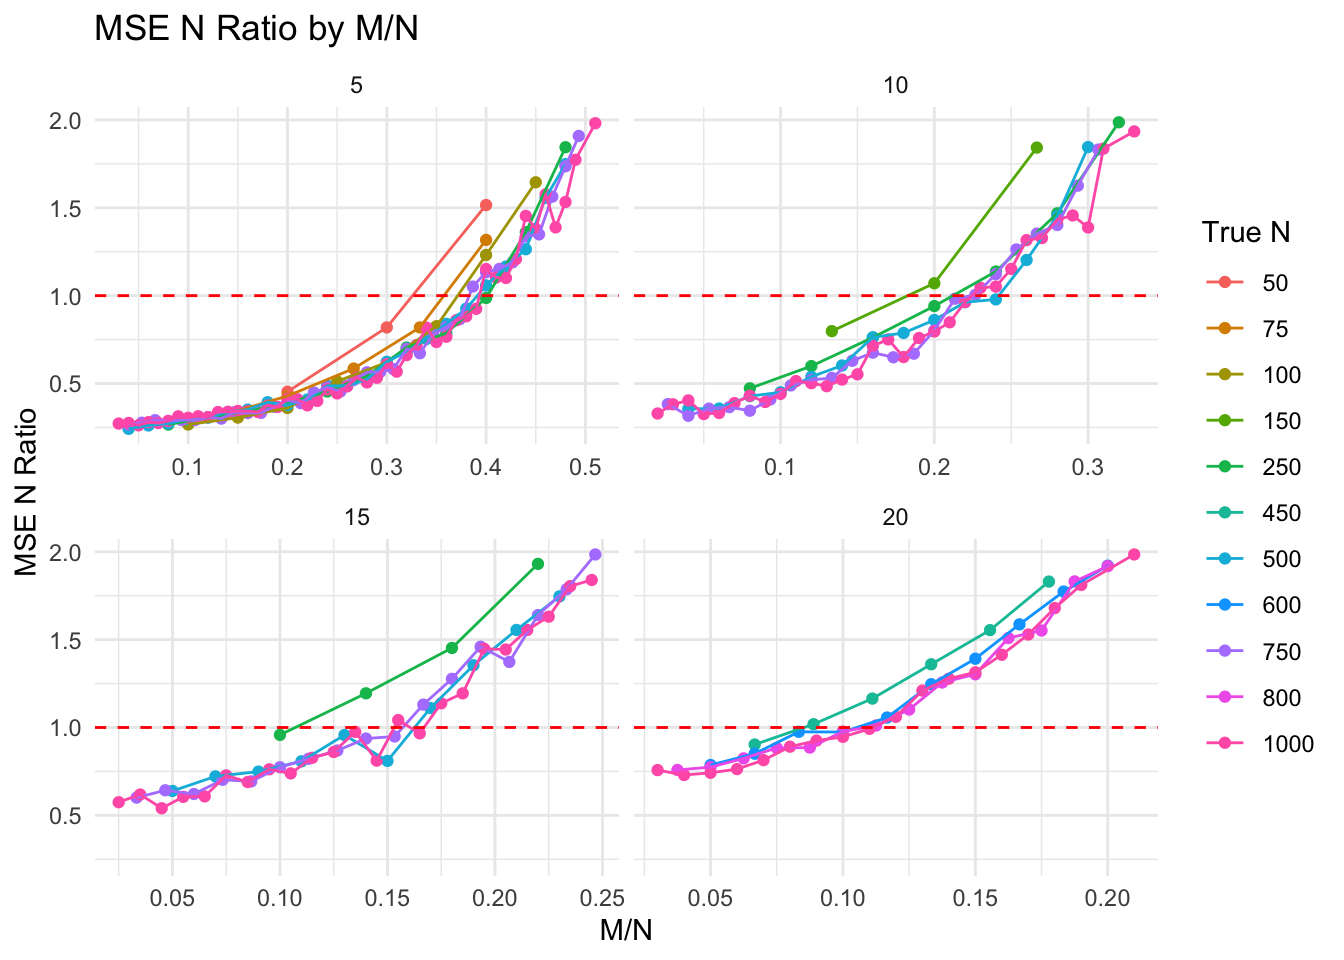
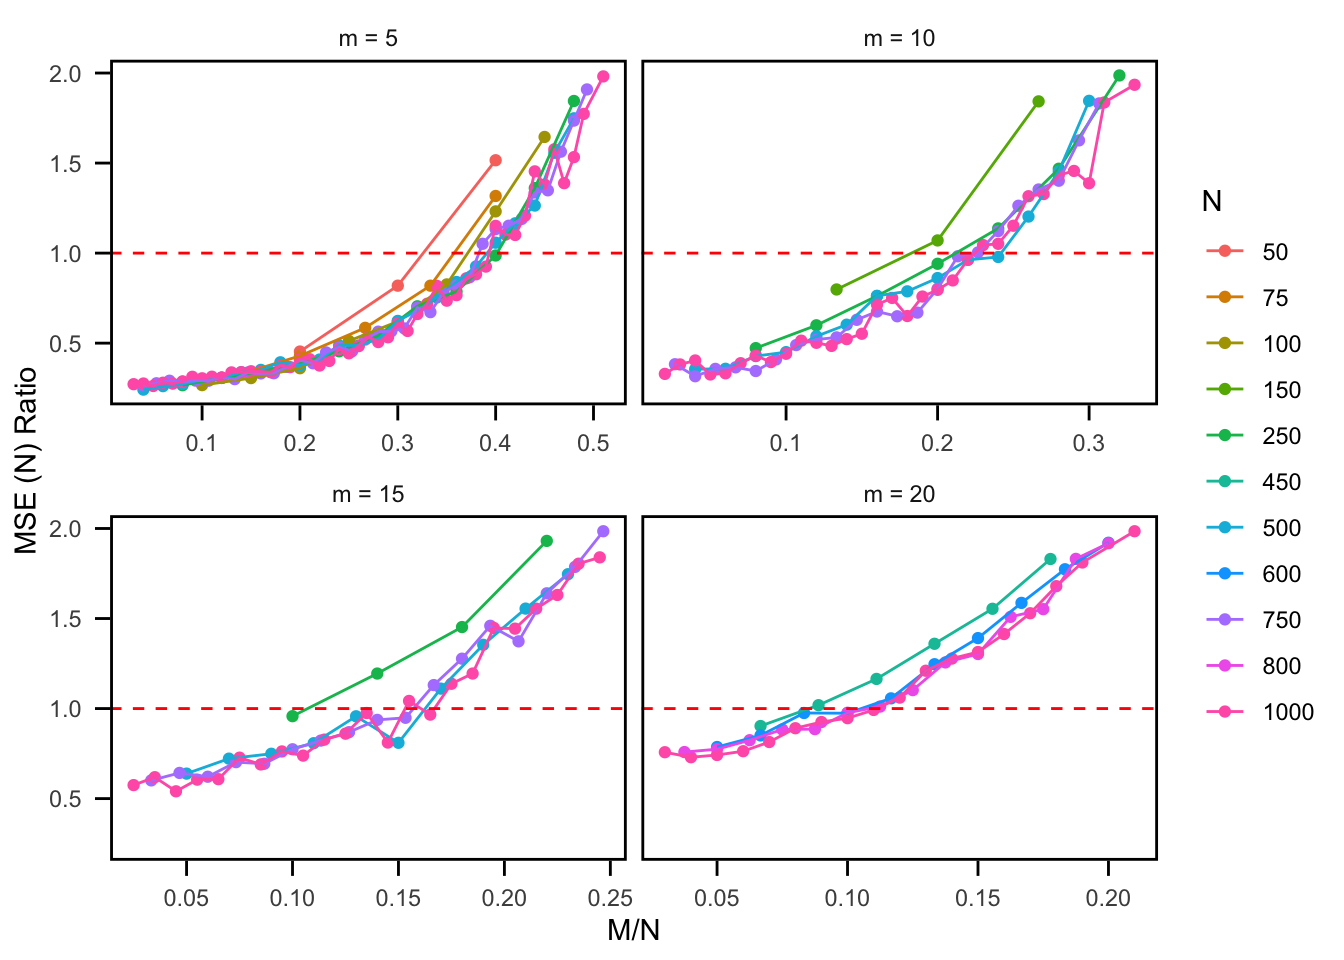
polished HG vs NHG Point Estimate plots

diff --git a/Simulation_Comparison/nhg_hg_sim_point_estimate.html b/Simulation_Comparison/nhg_hg_sim_point_estimate.html
@@ -732,18 +732,41 @@ MSE Ratios:</code></pre>
 <section id="mse-n-plot" class="level3">
 <h3 class="anchored" data-anchor-id="mse-n-plot">MSE (N) Plot</h3>
 <div class="cell">
-<div class="sourceCode cell-code" id="cb37"><pre class="sourceCode r code-with-copy"><code class="sourceCode r"><span id="cb37-1"><a href="#cb37-1" aria-hidden="true" tabindex="-1"></a><span class="fu">ggplot</span>(point_estimation_sim_df, </span>
-<span id="cb37-2"><a href="#cb37-2" aria-hidden="true" tabindex="-1"></a>       <span class="fu">aes</span>(<span class="at">x =</span> M_over_N, <span class="at">y =</span> mse_N_ratio, </span>
-<span id="cb37-3"><a href="#cb37-3" aria-hidden="true" tabindex="-1"></a>           <span class="at">color =</span> <span class="fu">factor</span>(true_N), <span class="at">group =</span> <span class="fu">factor</span>(true_N))) <span class="sc">+</span></span>
-<span id="cb37-4"><a href="#cb37-4" aria-hidden="true" tabindex="-1"></a>  <span class="fu">geom_point</span>() <span class="sc">+</span></span>
-<span id="cb37-5"><a href="#cb37-5" aria-hidden="true" tabindex="-1"></a>  <span class="fu">geom_line</span>() <span class="sc">+</span></span>
-<span id="cb37-6"><a href="#cb37-6" aria-hidden="true" tabindex="-1"></a>  <span class="fu">geom_hline</span>(<span class="at">yintercept =</span> <span class="dv">1</span>, <span class="at">color =</span> <span class="st">"red"</span>, <span class="at">linetype =</span> <span class="st">"dashed"</span>) <span class="sc">+</span> </span>
-<span id="cb37-7"><a href="#cb37-7" aria-hidden="true" tabindex="-1"></a>  <span class="fu">facet_wrap</span>(<span class="sc">~</span> m, <span class="at">scales =</span> <span class="st">"free_x"</span>) <span class="sc">+</span></span>
-<span id="cb37-8"><a href="#cb37-8" aria-hidden="true" tabindex="-1"></a>  <span class="fu">labs</span>(<span class="at">title =</span> <span class="st">"MSE N Ratio by M/N"</span>,</span>
-<span id="cb37-9"><a href="#cb37-9" aria-hidden="true" tabindex="-1"></a>       <span class="at">x =</span> <span class="st">"M/N"</span>,</span>
-<span id="cb37-10"><a href="#cb37-10" aria-hidden="true" tabindex="-1"></a>       <span class="at">y =</span> <span class="st">"MSE N Ratio"</span>,</span>
-<span id="cb37-11"><a href="#cb37-11" aria-hidden="true" tabindex="-1"></a>       <span class="at">color =</span> <span class="st">"True N"</span>) <span class="sc">+</span></span>
-<span id="cb37-12"><a href="#cb37-12" aria-hidden="true" tabindex="-1"></a>  <span class="fu">theme_minimal</span>()</span></code><button title="Copy to Clipboard" class="code-copy-button"><i class="bi"></i></button></pre></div>
+<div class="sourceCode cell-code" id="cb37"><pre class="sourceCode r code-with-copy"><code class="sourceCode r"><span id="cb37-1"><a href="#cb37-1" aria-hidden="true" tabindex="-1"></a>m_labels <span class="ot">&lt;-</span> <span class="fu">c</span>(</span>
+<span id="cb37-2"><a href="#cb37-2" aria-hidden="true" tabindex="-1"></a>  <span class="st">"5"</span>  <span class="ot">=</span> <span class="st">"m = 5"</span>,</span>
+<span id="cb37-3"><a href="#cb37-3" aria-hidden="true" tabindex="-1"></a>  <span class="st">"10"</span> <span class="ot">=</span> <span class="st">"m = 10"</span>,</span>
+<span id="cb37-4"><a href="#cb37-4" aria-hidden="true" tabindex="-1"></a>  <span class="st">"15"</span> <span class="ot">=</span> <span class="st">"m = 15"</span>,</span>
+<span id="cb37-5"><a href="#cb37-5" aria-hidden="true" tabindex="-1"></a>  <span class="st">"20"</span> <span class="ot">=</span> <span class="st">"m = 20"</span></span>
+<span id="cb37-6"><a href="#cb37-6" aria-hidden="true" tabindex="-1"></a>)</span>
+<span id="cb37-7"><a href="#cb37-7" aria-hidden="true" tabindex="-1"></a></span>
+<span id="cb37-8"><a href="#cb37-8" aria-hidden="true" tabindex="-1"></a><span class="fu">ggplot</span>(point_estimation_sim_df, </span>
+<span id="cb37-9"><a href="#cb37-9" aria-hidden="true" tabindex="-1"></a>       <span class="fu">aes</span>(<span class="at">x =</span> M_over_N, <span class="at">y =</span> mse_N_ratio, </span>
+<span id="cb37-10"><a href="#cb37-10" aria-hidden="true" tabindex="-1"></a>           <span class="at">color =</span> <span class="fu">factor</span>(true_N), <span class="at">group =</span> <span class="fu">factor</span>(true_N))) <span class="sc">+</span></span>
+<span id="cb37-11"><a href="#cb37-11" aria-hidden="true" tabindex="-1"></a>  <span class="fu">geom_point</span>() <span class="sc">+</span></span>
+<span id="cb37-12"><a href="#cb37-12" aria-hidden="true" tabindex="-1"></a>  <span class="fu">geom_line</span>() <span class="sc">+</span></span>
+<span id="cb37-13"><a href="#cb37-13" aria-hidden="true" tabindex="-1"></a>  <span class="fu">geom_hline</span>(<span class="at">yintercept =</span> <span class="dv">1</span>, <span class="at">color =</span> <span class="st">"red"</span>, <span class="at">linetype =</span> <span class="st">"dashed"</span>) <span class="sc">+</span> </span>
+<span id="cb37-14"><a href="#cb37-14" aria-hidden="true" tabindex="-1"></a>  <span class="fu">facet_wrap</span>(<span class="sc">~</span> m, <span class="at">scales =</span> <span class="st">"free_x"</span>, </span>
+<span id="cb37-15"><a href="#cb37-15" aria-hidden="true" tabindex="-1"></a>             <span class="at">labeller =</span> <span class="fu">as_labeller</span>(m_labels)) <span class="sc">+</span></span>
+<span id="cb37-16"><a href="#cb37-16" aria-hidden="true" tabindex="-1"></a>  <span class="fu">labs</span>(<span class="at">x =</span> <span class="st">"M/N"</span>,</span>
+<span id="cb37-17"><a href="#cb37-17" aria-hidden="true" tabindex="-1"></a>       <span class="at">y =</span> <span class="st">"MSE (N) Ratio"</span>,</span>
+<span id="cb37-18"><a href="#cb37-18" aria-hidden="true" tabindex="-1"></a>       <span class="at">color =</span> <span class="st">"N"</span>) <span class="sc">+</span></span>
+<span id="cb37-19"><a href="#cb37-19" aria-hidden="true" tabindex="-1"></a>  <span class="fu">theme_minimal</span>() <span class="sc">+</span></span>
+<span id="cb37-20"><a href="#cb37-20" aria-hidden="true" tabindex="-1"></a>  <span class="fu">theme</span>(</span>
+<span id="cb37-21"><a href="#cb37-21" aria-hidden="true" tabindex="-1"></a>    <span class="at">panel.grid.major =</span> <span class="fu">element_blank</span>(),</span>
+<span id="cb37-22"><a href="#cb37-22" aria-hidden="true" tabindex="-1"></a>    <span class="at">panel.grid.minor =</span> <span class="fu">element_blank</span>(),</span>
+<span id="cb37-23"><a href="#cb37-23" aria-hidden="true" tabindex="-1"></a>    <span class="at">panel.border =</span> <span class="fu">element_rect</span>(<span class="at">color =</span> <span class="st">"black"</span>, <span class="at">fill =</span> <span class="cn">NA</span>, <span class="at">size =</span> <span class="dv">1</span>),</span>
+<span id="cb37-24"><a href="#cb37-24" aria-hidden="true" tabindex="-1"></a>    <span class="at">axis.ticks =</span> <span class="fu">element_line</span>(<span class="at">size =</span> <span class="fl">0.5</span>),</span>
+<span id="cb37-25"><a href="#cb37-25" aria-hidden="true" tabindex="-1"></a>    <span class="at">axis.ticks.length =</span> <span class="fu">unit</span>(<span class="dv">2</span>, <span class="st">"mm"</span>),</span>
+<span id="cb37-26"><a href="#cb37-26" aria-hidden="true" tabindex="-1"></a>    <span class="at">axis.text.x =</span> <span class="fu">element_text</span>(<span class="at">margin =</span> <span class="fu">margin</span>(<span class="at">t =</span> <span class="dv">5</span>)),</span>
+<span id="cb37-27"><a href="#cb37-27" aria-hidden="true" tabindex="-1"></a>    <span class="at">axis.text.y =</span> <span class="fu">element_text</span>(<span class="at">margin =</span> <span class="fu">margin</span>(<span class="at">r =</span> <span class="dv">5</span>)))</span></code><button title="Copy to Clipboard" class="code-copy-button"><i class="bi"></i></button></pre></div>
+<div class="cell-output cell-output-stderr">
+<pre><code>Warning: The `size` argument of `element_line()` is deprecated as of ggplot2 3.4.0.
+ℹ Please use the `linewidth` argument instead.</code></pre>
+</div>
+<div class="cell-output cell-output-stderr">
+<pre><code>Warning: The `size` argument of `element_rect()` is deprecated as of ggplot2 3.4.0.
+ℹ Please use the `linewidth` argument instead.</code></pre>
+</div>
 <div class="cell-output-display">
 <div>
 <figure class="figure">
@@ -756,18 +779,33 @@ MSE Ratios:</code></pre>
 <section id="mse-m-plot" class="level3">
 <h3 class="anchored" data-anchor-id="mse-m-plot">MSE (M) Plot</h3>
 <div class="cell">
-<div class="sourceCode cell-code" id="cb38"><pre class="sourceCode r code-with-copy"><code class="sourceCode r"><span id="cb38-1"><a href="#cb38-1" aria-hidden="true" tabindex="-1"></a><span class="fu">ggplot</span>(point_estimation_sim_df, </span>
-<span id="cb38-2"><a href="#cb38-2" aria-hidden="true" tabindex="-1"></a>       <span class="fu">aes</span>(<span class="at">x =</span> M_over_N, <span class="at">y =</span> mse_M_ratio, </span>
-<span id="cb38-3"><a href="#cb38-3" aria-hidden="true" tabindex="-1"></a>           <span class="at">color =</span> <span class="fu">factor</span>(true_N), <span class="at">group =</span> <span class="fu">factor</span>(true_N))) <span class="sc">+</span></span>
-<span id="cb38-4"><a href="#cb38-4" aria-hidden="true" tabindex="-1"></a>  <span class="fu">geom_point</span>() <span class="sc">+</span></span>
-<span id="cb38-5"><a href="#cb38-5" aria-hidden="true" tabindex="-1"></a>  <span class="fu">geom_line</span>() <span class="sc">+</span></span>
-<span id="cb38-6"><a href="#cb38-6" aria-hidden="true" tabindex="-1"></a>  <span class="fu">geom_hline</span>(<span class="at">yintercept =</span> <span class="dv">1</span>, <span class="at">color =</span> <span class="st">"red"</span>, <span class="at">linetype =</span> <span class="st">"dashed"</span>) <span class="sc">+</span> </span>
-<span id="cb38-7"><a href="#cb38-7" aria-hidden="true" tabindex="-1"></a>  <span class="fu">facet_wrap</span>(<span class="sc">~</span> m, <span class="at">scales =</span> <span class="st">"free_x"</span>) <span class="sc">+</span></span>
-<span id="cb38-8"><a href="#cb38-8" aria-hidden="true" tabindex="-1"></a>  <span class="fu">labs</span>(<span class="at">title =</span> <span class="st">"MSE M Ratio by M/N"</span>,</span>
-<span id="cb38-9"><a href="#cb38-9" aria-hidden="true" tabindex="-1"></a>       <span class="at">x =</span> <span class="st">"M/N"</span>,</span>
-<span id="cb38-10"><a href="#cb38-10" aria-hidden="true" tabindex="-1"></a>       <span class="at">y =</span> <span class="st">"MSE M Ratio"</span>,</span>
-<span id="cb38-11"><a href="#cb38-11" aria-hidden="true" tabindex="-1"></a>       <span class="at">color =</span> <span class="st">"True N"</span>) <span class="sc">+</span></span>
-<span id="cb38-12"><a href="#cb38-12" aria-hidden="true" tabindex="-1"></a>  <span class="fu">theme_minimal</span>()</span></code><button title="Copy to Clipboard" class="code-copy-button"><i class="bi"></i></button></pre></div>
+<div class="sourceCode cell-code" id="cb40"><pre class="sourceCode r code-with-copy"><code class="sourceCode r"><span id="cb40-1"><a href="#cb40-1" aria-hidden="true" tabindex="-1"></a>m_labels <span class="ot">&lt;-</span> <span class="fu">c</span>(</span>
+<span id="cb40-2"><a href="#cb40-2" aria-hidden="true" tabindex="-1"></a>  <span class="st">"5"</span>  <span class="ot">=</span> <span class="st">"m = 5"</span>,</span>
+<span id="cb40-3"><a href="#cb40-3" aria-hidden="true" tabindex="-1"></a>  <span class="st">"10"</span> <span class="ot">=</span> <span class="st">"m = 10"</span>,</span>
+<span id="cb40-4"><a href="#cb40-4" aria-hidden="true" tabindex="-1"></a>  <span class="st">"15"</span> <span class="ot">=</span> <span class="st">"m = 15"</span>,</span>
+<span id="cb40-5"><a href="#cb40-5" aria-hidden="true" tabindex="-1"></a>  <span class="st">"20"</span> <span class="ot">=</span> <span class="st">"m = 20"</span></span>
+<span id="cb40-6"><a href="#cb40-6" aria-hidden="true" tabindex="-1"></a>)</span>
+<span id="cb40-7"><a href="#cb40-7" aria-hidden="true" tabindex="-1"></a></span>
+<span id="cb40-8"><a href="#cb40-8" aria-hidden="true" tabindex="-1"></a><span class="fu">ggplot</span>(point_estimation_sim_df, </span>
+<span id="cb40-9"><a href="#cb40-9" aria-hidden="true" tabindex="-1"></a>       <span class="fu">aes</span>(<span class="at">x =</span> M_over_N, <span class="at">y =</span> mse_M_ratio, </span>
+<span id="cb40-10"><a href="#cb40-10" aria-hidden="true" tabindex="-1"></a>           <span class="at">color =</span> <span class="fu">factor</span>(true_N), <span class="at">group =</span> <span class="fu">factor</span>(true_N))) <span class="sc">+</span></span>
+<span id="cb40-11"><a href="#cb40-11" aria-hidden="true" tabindex="-1"></a>  <span class="fu">geom_point</span>() <span class="sc">+</span></span>
+<span id="cb40-12"><a href="#cb40-12" aria-hidden="true" tabindex="-1"></a>  <span class="fu">geom_line</span>() <span class="sc">+</span></span>
+<span id="cb40-13"><a href="#cb40-13" aria-hidden="true" tabindex="-1"></a>  <span class="fu">geom_hline</span>(<span class="at">yintercept =</span> <span class="dv">1</span>, <span class="at">color =</span> <span class="st">"red"</span>, <span class="at">linetype =</span> <span class="st">"dashed"</span>) <span class="sc">+</span> </span>
+<span id="cb40-14"><a href="#cb40-14" aria-hidden="true" tabindex="-1"></a>  <span class="fu">facet_wrap</span>(<span class="sc">~</span> m, <span class="at">scales =</span> <span class="st">"free_x"</span>, </span>
+<span id="cb40-15"><a href="#cb40-15" aria-hidden="true" tabindex="-1"></a>             <span class="at">labeller =</span> <span class="fu">as_labeller</span>(m_labels)) <span class="sc">+</span></span>
+<span id="cb40-16"><a href="#cb40-16" aria-hidden="true" tabindex="-1"></a>  <span class="fu">labs</span>(<span class="at">x =</span> <span class="st">"M/N"</span>,</span>
+<span id="cb40-17"><a href="#cb40-17" aria-hidden="true" tabindex="-1"></a>       <span class="at">y =</span> <span class="st">"MSE (M) Ratio"</span>,</span>
+<span id="cb40-18"><a href="#cb40-18" aria-hidden="true" tabindex="-1"></a>       <span class="at">color =</span> <span class="st">"N"</span>) <span class="sc">+</span></span>
+<span id="cb40-19"><a href="#cb40-19" aria-hidden="true" tabindex="-1"></a>  <span class="fu">theme_minimal</span>() <span class="sc">+</span></span>
+<span id="cb40-20"><a href="#cb40-20" aria-hidden="true" tabindex="-1"></a>  <span class="fu">theme</span>(</span>
+<span id="cb40-21"><a href="#cb40-21" aria-hidden="true" tabindex="-1"></a>  <span class="at">panel.grid.major =</span> <span class="fu">element_blank</span>(),</span>
+<span id="cb40-22"><a href="#cb40-22" aria-hidden="true" tabindex="-1"></a>  <span class="at">panel.grid.minor =</span> <span class="fu">element_blank</span>(),</span>
+<span id="cb40-23"><a href="#cb40-23" aria-hidden="true" tabindex="-1"></a>  <span class="at">panel.border =</span> <span class="fu">element_rect</span>(<span class="at">color =</span> <span class="st">"black"</span>, <span class="at">fill =</span> <span class="cn">NA</span>, <span class="at">size =</span> <span class="dv">1</span>),</span>
+<span id="cb40-24"><a href="#cb40-24" aria-hidden="true" tabindex="-1"></a>  <span class="at">axis.ticks =</span> <span class="fu">element_line</span>(<span class="at">size =</span> <span class="fl">0.5</span>),</span>
+<span id="cb40-25"><a href="#cb40-25" aria-hidden="true" tabindex="-1"></a>  <span class="at">axis.ticks.length =</span> <span class="fu">unit</span>(<span class="dv">2</span>, <span class="st">"mm"</span>),</span>
+<span id="cb40-26"><a href="#cb40-26" aria-hidden="true" tabindex="-1"></a>  <span class="at">axis.text.x =</span> <span class="fu">element_text</span>(<span class="at">margin =</span> <span class="fu">margin</span>(<span class="at">t =</span> <span class="dv">5</span>)),</span>
+<span id="cb40-27"><a href="#cb40-27" aria-hidden="true" tabindex="-1"></a>  <span class="at">axis.text.y =</span> <span class="fu">element_text</span>(<span class="at">margin =</span> <span class="fu">margin</span>(<span class="at">r =</span> <span class="dv">5</span>)))</span></code><button title="Copy to Clipboard" class="code-copy-button"><i class="bi"></i></button></pre></div>
 <div class="cell-output-display">
 <div>
 <figure class="figure">
